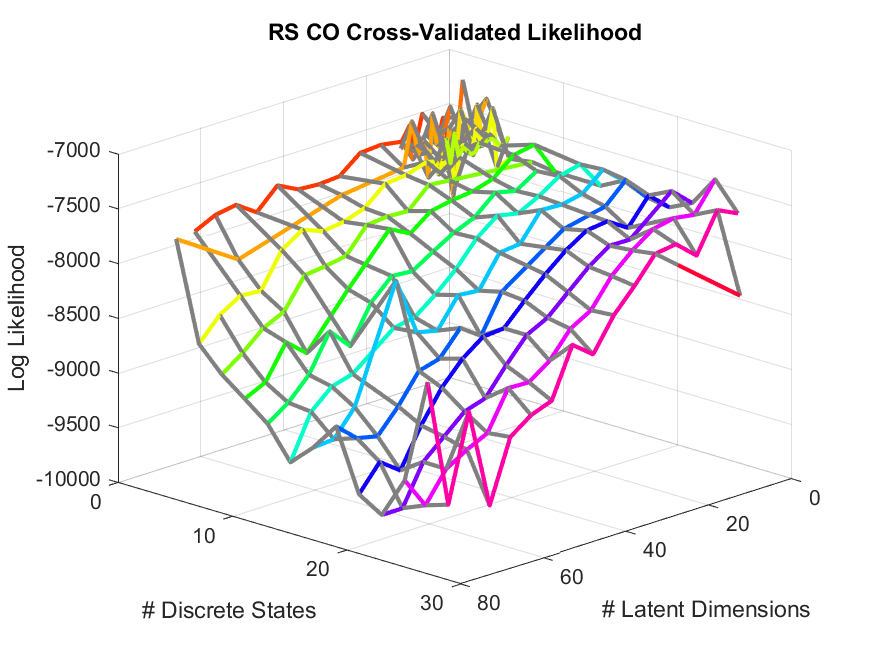
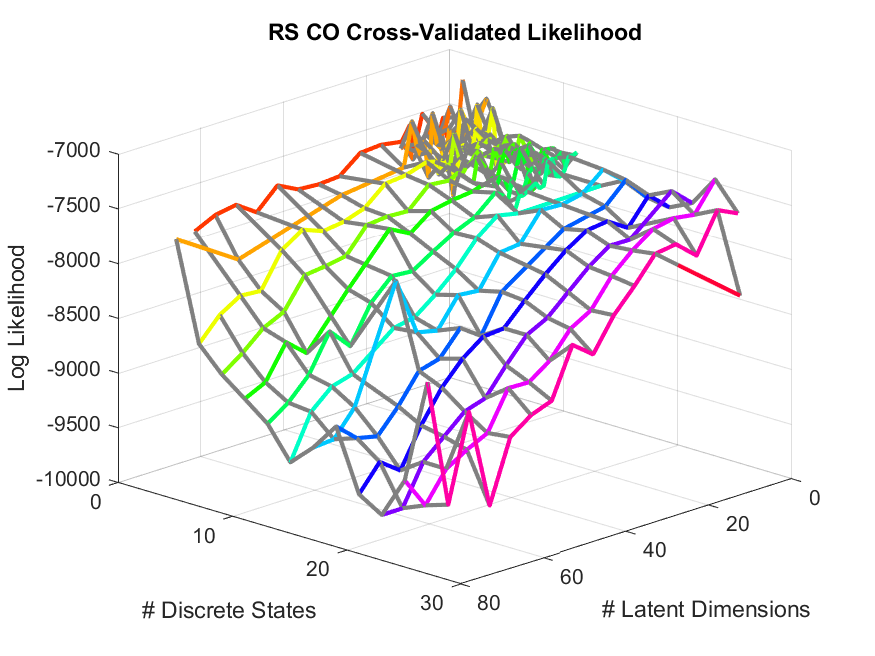
param search figs

Changed region(s): [[0.4937, 0.1829, 0.6789, 0.3354]]

diff --git a/code/python_switching_models/ll_csv_to_plot.m b/code/python_switching_models/ll_csv_to_plot.m
@@ -64,7 +64,6 @@ for iState = 2:size(bits_per_spike,2)
     plot3(x,repmat(iState,length(y)),y,'LineWidth',2,'Color',colors(iState,:));
 end
 view(134,24)
-colors = hsv(size(bits_per_spike,1));
 for iDim = 2:size(bits_per_spike,1)
     x = find(bits_per_spike(iDim,:)~=0 & ~isnan(bits_per_spike(iDim,:)));
     y = bits_per_spike(iDim,bits_per_spike(iDim,:)~=0);
@@ -81,6 +80,27 @@ box off
 hold off
 saveas(gcf,[meta.figure_folder_filepath,meta.subject,meta.task,'CT',num2str(meta.crosstrain),'_param_search_surf.png']);
 
+%% 3D focused
+colors = hsv(size(bits_per_spike,2));
+focused_state_range = 2:20;
+x = focused_state_range;
+y = [];
+state_count = 1;
+for iState = focused_state_range
+    y(state_count,:) = bits_per_spike(10,iState);
+    state_count = state_count + 1;
+end
+state_mean_across_dims = mean(y,2,'omitnan');
+figure; hold on;
+plot(x,state_mean_across_dims,'-o','LineWidth',2);
+set(gcf,"Color","w")
+title(strcat(meta.subject," ",meta.task," Cross-Validated Likelihood"))
+xlabel("# Discrete States")
+ylabel("Log Likelihood")
+grid on
+box off
+hold off
+saveas(gcf,[meta.figure_folder_filepath,meta.subject,meta.task,'CT',num2str(meta.crosstrain),'_param_search_focused_3d.png']);
 
 %%   2D
 colors = hsv(size(bits_per_spike,2));
